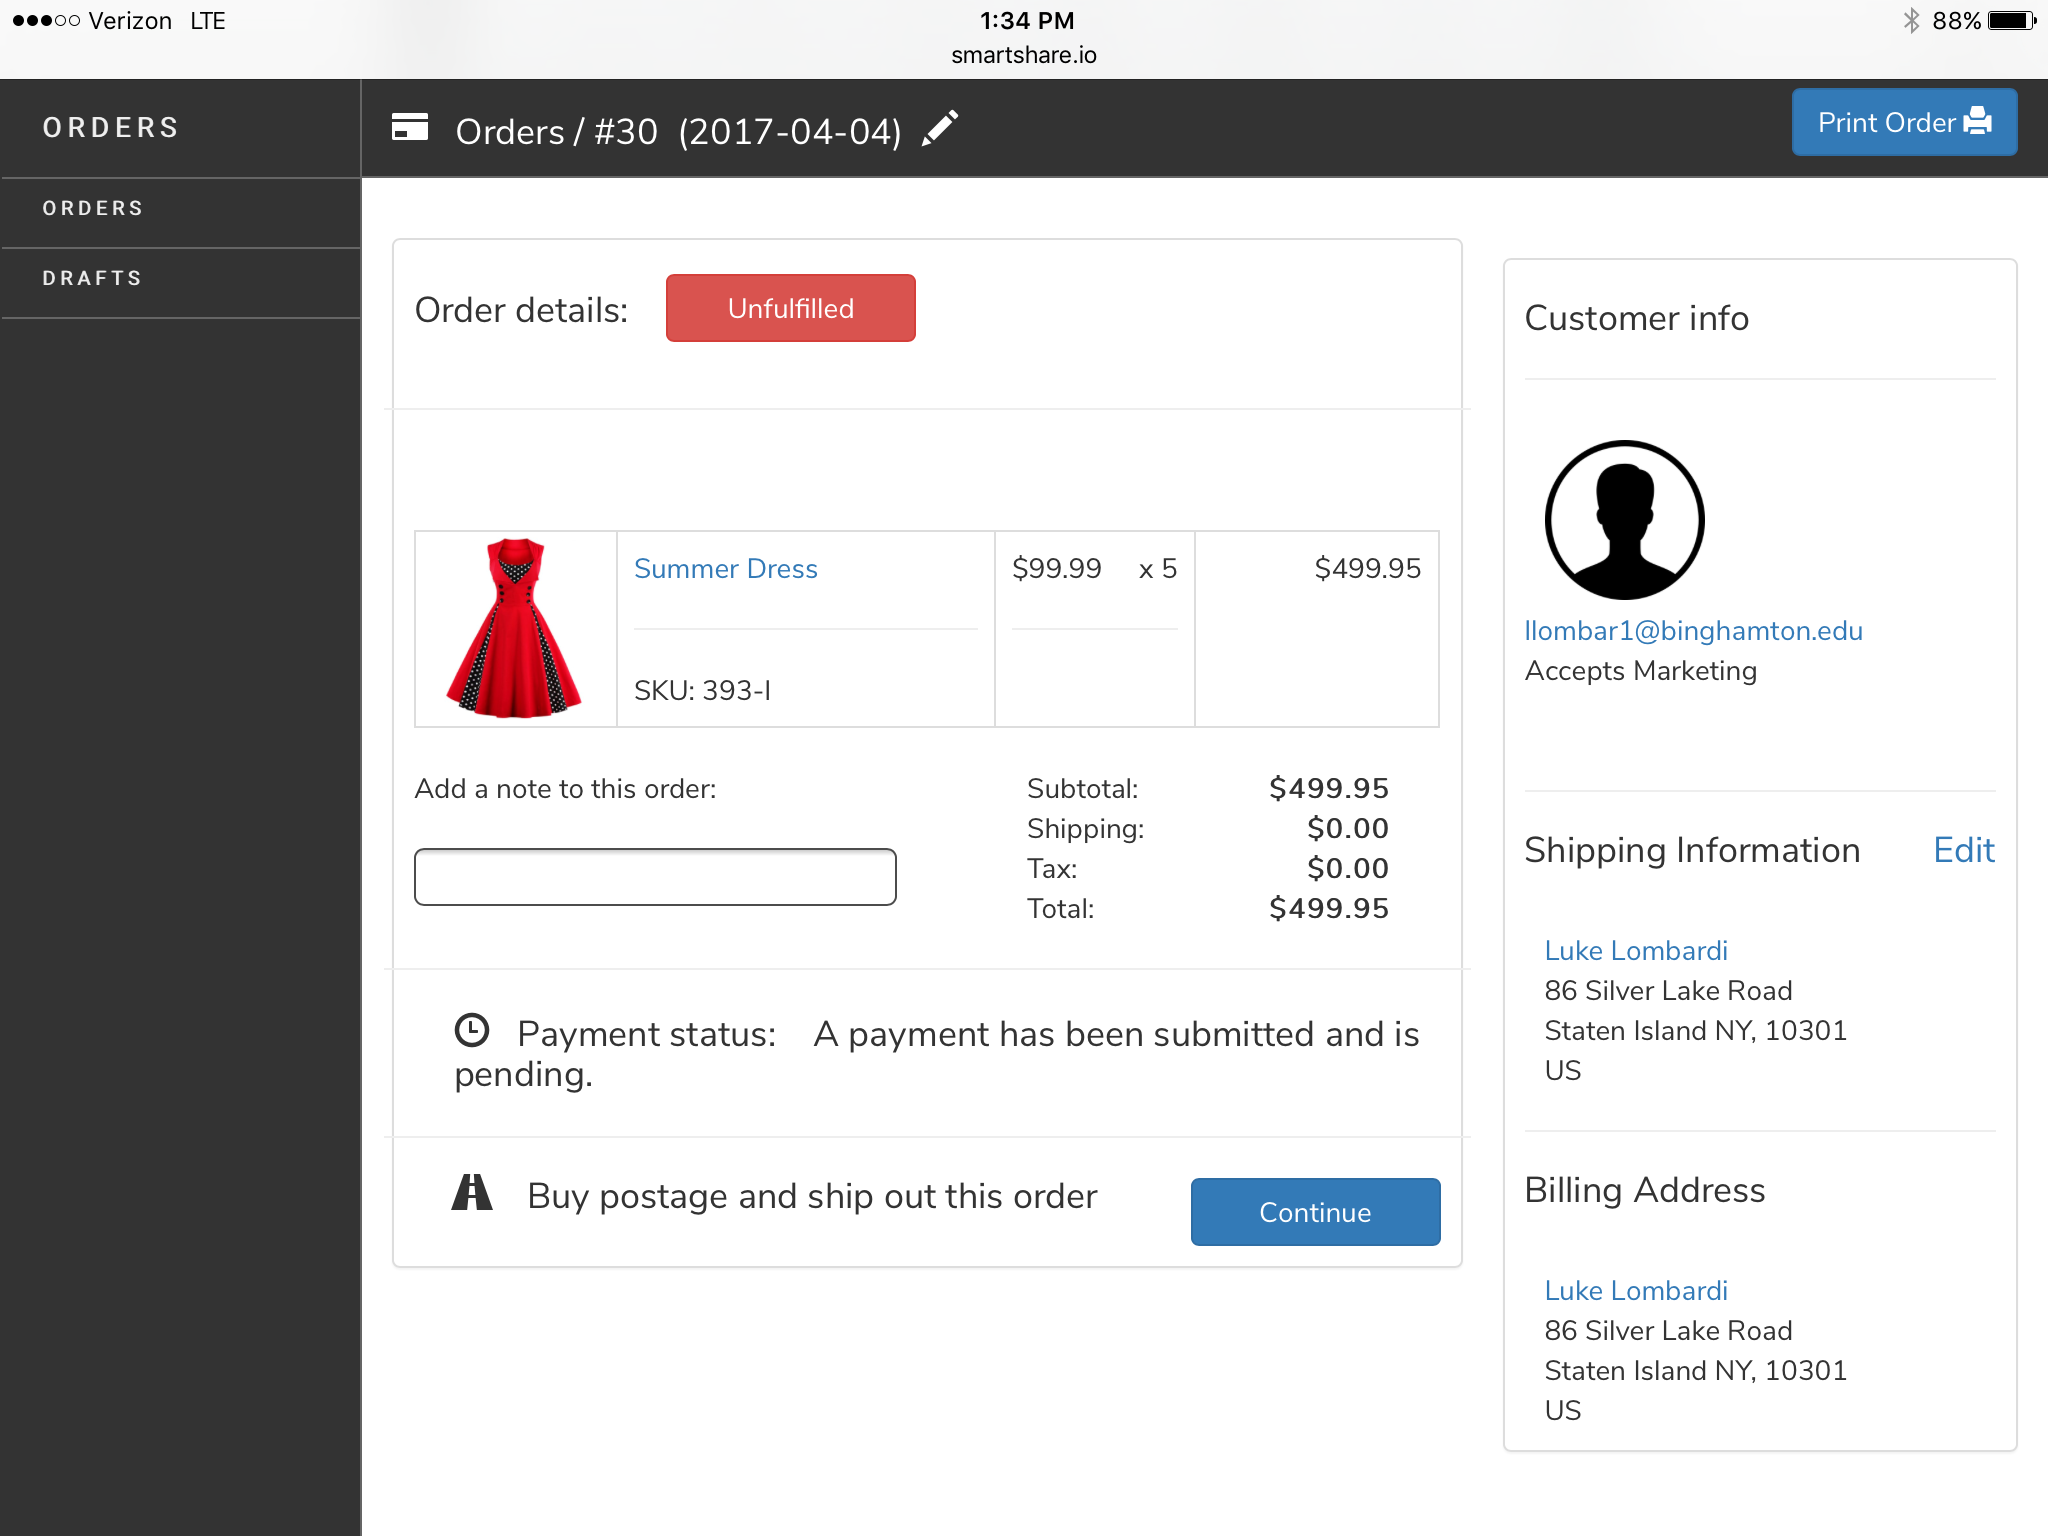
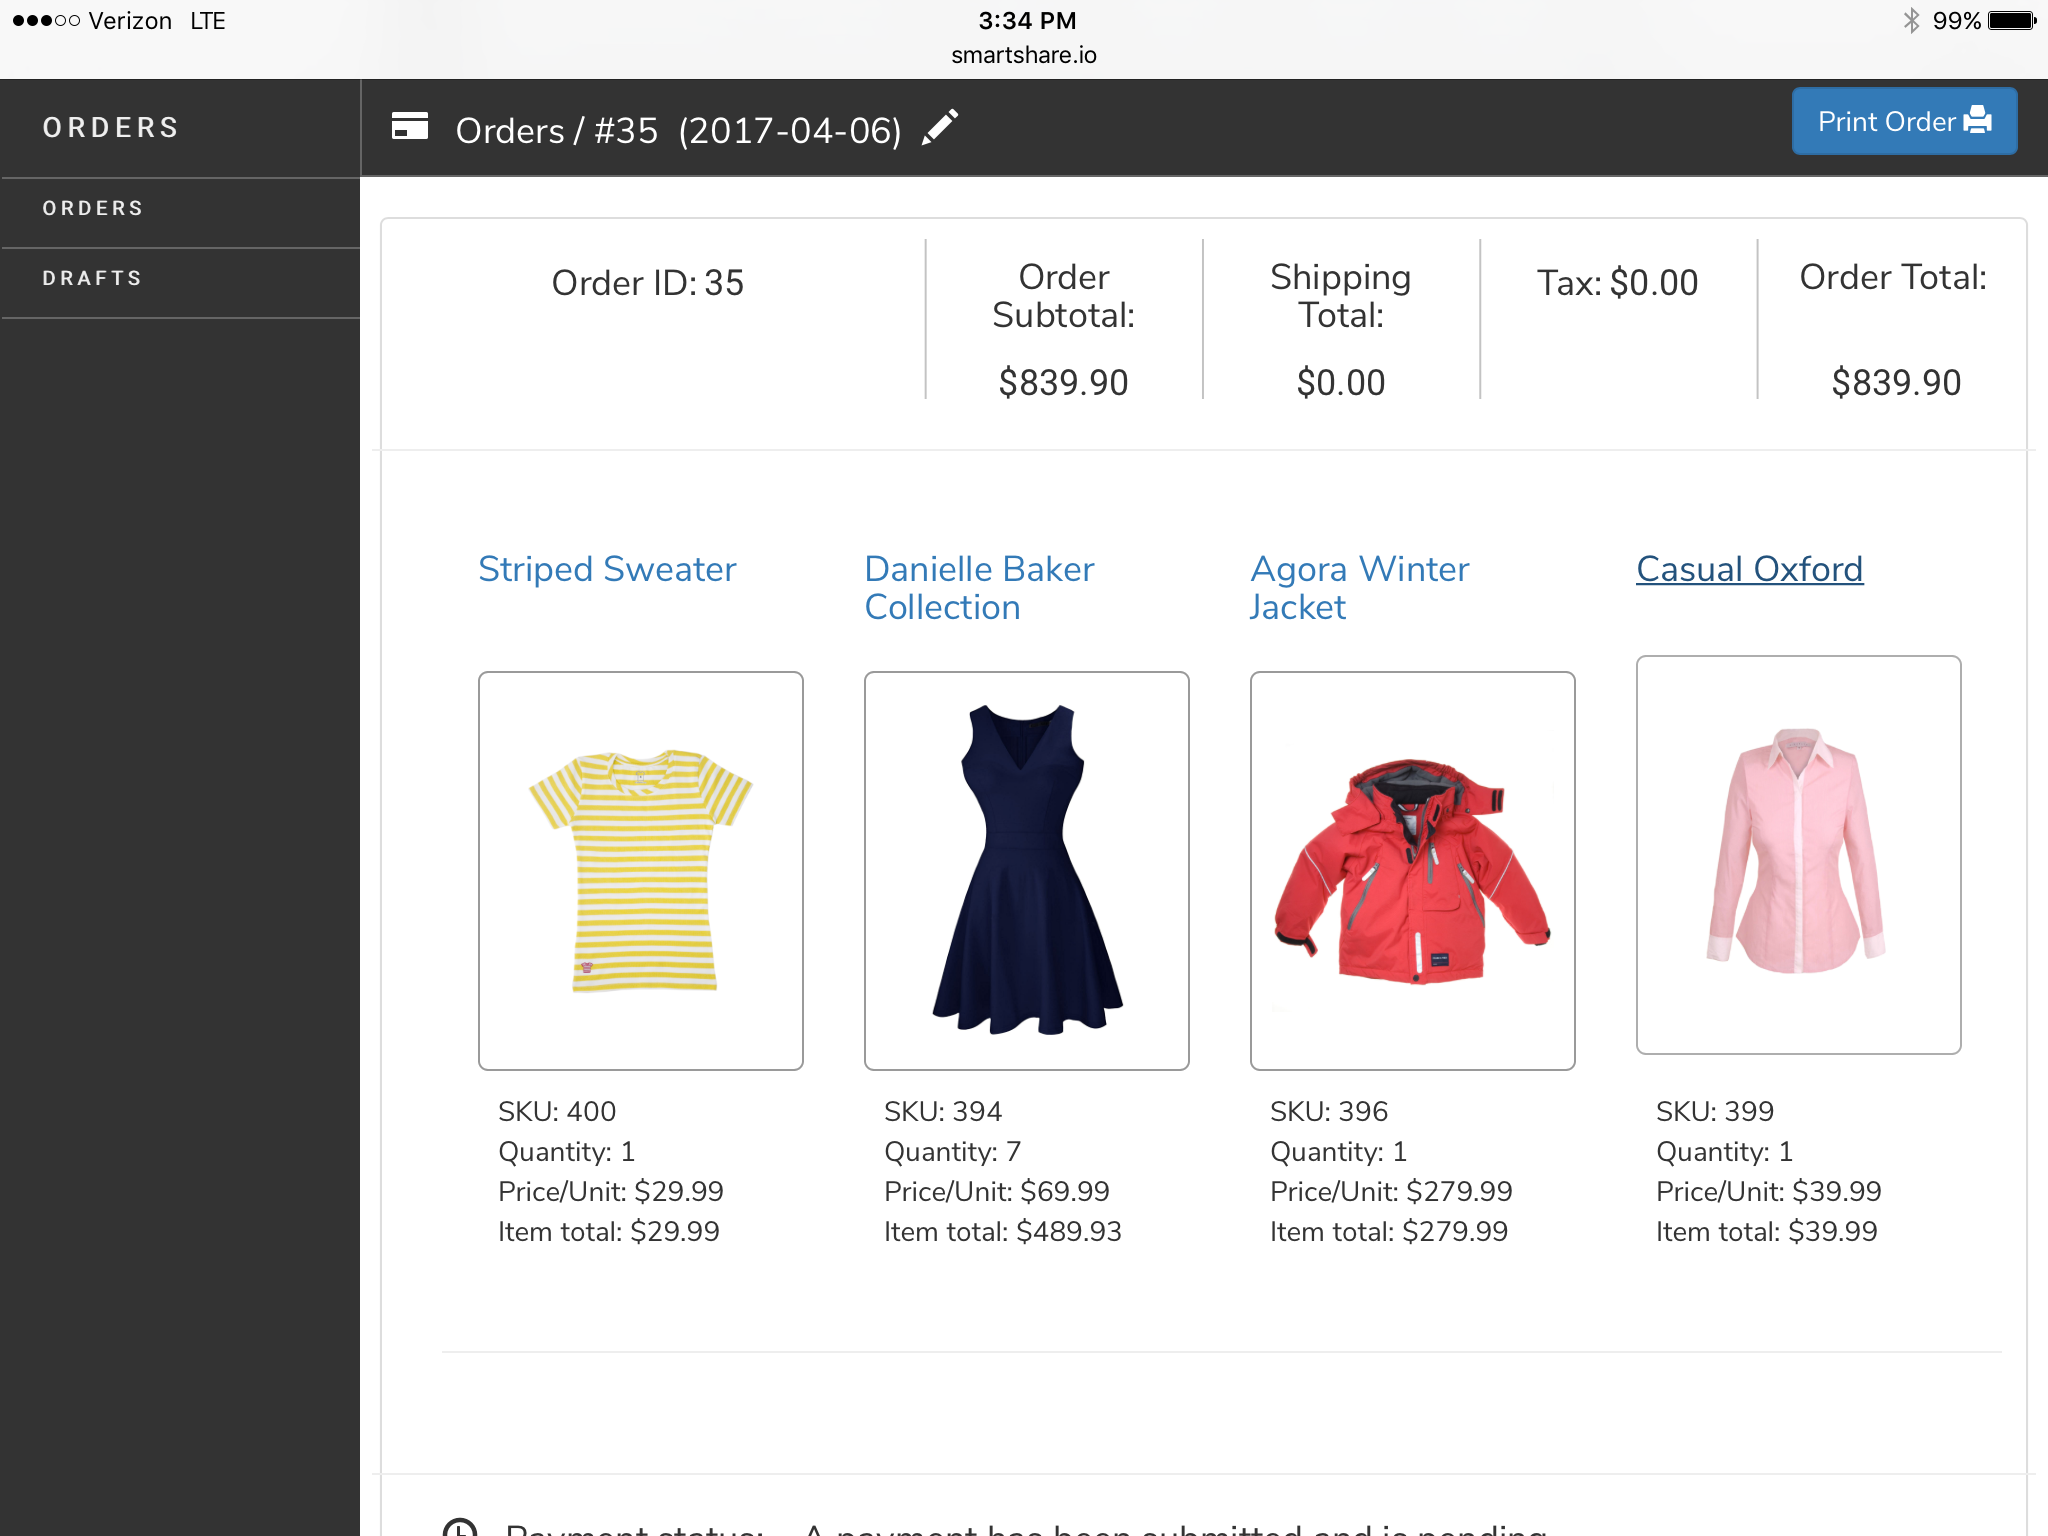
order fulfillment edits

diff --git a/templates/control_panel/order/FulfillOrder.html b/templates/control_panel/order/FulfillOrder.html
@@ -12,14 +12,18 @@
 
 <div class="row">
 	<!-- Begin fulfillment editor content div -->
+
 	<div class="col-xs-12 tab_content">
+
+		<div class="container-fluid">
+
 		<div class="row">
 		<!-- begin fulfillment editor left panel -->
-			<div class="col-xs-8" id="fulfillment_editor_left_panel">
+			<div class="col-lg-9 flex-panel">
 				
 				<!-- begin fulfillment details panel -->
 				<div class="panel panel-default" id="panel_fulfillment_details">
-					<h4> Fulfillment Method </h4>
+					<h4> <a href="/control/orders/{{control_data.order_id}}"><button type="button" class="btn btn-primary"><span class="glyphicon glyphicon-chevron-left"></span> &nbsp; Back to order </button></a> &nbsp;&nbsp; Fulfillment Method </h4>
 					<!-- begin fulfillment method choice -->
 					<div class="row">
 						<hr>
@@ -39,7 +43,7 @@
 					</div>
 					<!-- end fulfillment method choice -->
 					<br>
-					<h4> Items to fulfill </h4>
+					<h4> Items to fulfill: </h4>
 					<!-- begin order details -->
 					<div class="row">
 						<hr>
@@ -69,32 +73,16 @@
 
 					<!-- begin fulfillment option -> mark fulfilled -->
 					<div id="cont_mark_fulfilled">
-						<h4> Tracking information </h4>
+						<h4> Order tracking </h4>
+						<div class="row">
 							<hr>
-								<div class="form-group">
+							<div class="col-xs-12">
 
-									<div class="row">
-										<div class="col-xs-6">
-											<span class="span_label"> Enter a tracking number: </span>
-										</div>
-										<div class="col-xs-6">
-											<span class="span_label"> Select your shipping service: </span>
-										</div>
-									</div>
-									<br>
-									<div class="row">
-										<div class="col-xs-6">
-											<input type="text" class="form-control" placeholder="Tracking number: e.g. 9400 1000 0000 0000 0000 00">
-										</div>
-										<div class="col-xs-6">
-											<select class="form-control">
-												<option value="USPS"> USPS </option>
-												<option value="UPS"> UPS </option>
-											</select>
-										</div>
-									</div>
-								</div>
+
+
+							</div>
 						</div>
+					</div>
 					<!-- end fulfillment option -> mark fulfilled -->
 					</div>
 						
@@ -102,7 +90,7 @@
 			<!-- end fulfillment editor left panel -->
 
 		<!-- begin fulfillment editor right panel -->
-			<div class="col-xs-4" id="fulfillment_editor_right_panel">
+			<div class="col-lg-3 flex-panel">
 			<!-- begin order customer panel -->
 				<div class="panel panel-default padded_panel" id="panel_order_customer">					
 					<h4> Shipping Information <a href="#" data-toggle="modal" data-target="#modal_editShippingAddress" style="float:right;"> Edit </a> </h4>
@@ -122,7 +110,7 @@
 					<hr>
 
 					<div id="cont_summary_fulfill">
-						<h5> Mark selected item quantities as fulfilled: </h5>
+						<h5> Mark fulfilled: </h5>
 						<hr>
 						<div class="row">
 								<div class="col-xs-12 text-center">
@@ -146,6 +134,7 @@
 		</div>
 	</div>
 	<!-- End fulfillment editor content div -->
+</div>
 </div>
 
 	<div class="row">

diff --git a/templates/control_panel/order/table_orderProducts_fulfillment.html b/templates/control_panel/order/table_orderProducts_fulfillment.html
@@ -1,36 +1,37 @@
-
-  <table class="table table-bordered table-hover" id="order_products_table">
-  <thead>
-  <th id="th_thumbnail"></th>
-  <th></th>
-  <th id="th_sku"></th>
-  <th></th>
-
-  </thead>
- 	<tbody>
- 	{% for product_id, product in products.iteritems() %}
- 	<tr class="product_row" data-productID="{{product_id}}" data-productSKU="{{product.VariantSKU}}">
- 		
- 		<td class="thumbnail_product_40"> 
- 		<input type="hidden" class="product_img_src" id="{{product.product_id}}" value="{{product_thumbnails[product_id]}}"> 
-
- 		</td>
- 		<td> <a href="/control/products/{{product_id}}"> {{ product.Title }} </a><hr>SKU: {{product.VariantSKU}} </td>
- 		<td> ${{ '%0.2f' % product.VariantPrice }} x <hr>
- 			<select class="form-control select_product_quantity" data-productID="{{product_id}}" data-productSKU="{{product.VariantSKU}}"> 
-				{% for n in range((product.quantity | int) + 1) %}
-					<option value="{{n}}">{{n}}</option>
-				{% endfor %}
- 			</select>
- 		</td>
- 		<td class="order_item_total"> ${{ '%0.2f' % subtotals[product.VariantSKU] }}</td>
-
- 		<input type="hidden" class="product_quantity" data-productID="{{product_id}}" data-productSKU="{{product.VariantSKU}}" value="{{product.quantity}}">
-
- 	</tr>
- 	{% endfor %}
+<div id="order_products_table">
+    <div class="row" id="order_products_row">
+      {% for product_id, product in products.iteritems() %}
+        <div class="col-sm-3 order_product_container">
+          
 
 
- 	</tbody>
-  </table>	
+          <a href="/control/products/{{product_id}}">
+            <h4 class="order_product_title"> {{product.Title}} </h4>  
+          </a>
+            <div class="order_product_fulfillment_status">
+
+              <div class="order_product_fulfillment hvr-float" data-productID="{{product_id}}" style="background-image:url('{{product_thumbnails[product_id]}}');">
+                  
+                  <div class="order-fulfillment-glyph"> 
+                    <span class="glyph-fulfilled glyphicon glyphicon-ok"> </span> 
+                  </div>
+              </div>
+            </div>
+         
+
+          <div class="order_product_info" data-productID="{{product_id}}">
+              SKU: {{product.VariantSKU}} <br>
+              Quantity: {{ product.quantity }} <br>
+              Price/Unit: ${{ '%0.2f' % product.VariantPrice }} <br>
+              Item total: ${{ '%0.2f' % subtotals[product.VariantSKU] }}
+          </div>
+        </div>
+        <hr class="hidden-sm hidden-md hidden-lg hidden-xl">
+
+      {% endfor %}
+    </div>
+    <hr>
+
+</div>
+
 

diff --git a/templates/control_panel/product/productEditor_product.html b/templates/control_panel/product/productEditor_product.html
@@ -10,11 +10,10 @@
 		<div class="row">
 			<!-- Begin product editor content div -->
 			<div class="col-xs-12 tab_content">
-				<div class="container">
+			<div class="container-fluid">
 				<div class="row">
 					<!-- Begin: main product editor column (left aligned) -->
-					<div class="col-lg-7" id="product_editor_panel">
-
+					<div class="col-lg-7 flex-panel">
 						<div class="panel panel-default" id="panel_product_text_editor">
 							<h4> Product Details &nbsp;&nbsp; <span class="glyphicon glyphicon-list-alt"></span></h4>
 							<hr>
@@ -147,7 +146,7 @@
 		 			<!-- End: main product editor column (left aligned) -->
 
 		 			<!-- Begin: product attribute editor column (right aligned) -->
-					<div class="col-lg-5" id="product_editor_attributes">
+					<div class="col-lg-5 flex-panel">
 						<div class="panel panel-default text-center" id="panel_product_visibility">
 							<h4> Product Visibility &nbsp;&nbsp; <span class="glyphicon glyphicon-eye-open"></span> </h4>
 							<hr>
@@ -305,9 +304,8 @@
 			</div>
 			<!-- End: Product editor content div -->
 		</div>
-		</div>
-
 	</div>
+
 
 
 

diff --git a/static/css/control.css b/static/css/control.css
@@ -1431,18 +1431,11 @@ h4 {
 .flex-panel {
     flex:1;
     padding:10px;
+    margin-top:10px;
+    display:flex;
+    flex-direction: column;
 }
 
-#product_editor_panel{
-	flex:1;
-	padding:10px;
-	
-}
-
-#product_editor_attributes{
-	flex:1;
-	padding:10px;
-}
 
 
 #product_description {
@@ -1975,6 +1968,10 @@ top:-1px;
     margin-bottom:20px;
 }
 
+.order_product_fulfillment_status{
+
+}
+
 .order_product{
     margin-top:10px;
     height:200px;
@@ -1993,6 +1990,28 @@ top:-1px;
 .order_product:hover{
     opacity:0.8;
 }
+
+
+.order_product_fulfillment{
+    margin-top:10px;
+    height:200px;
+    width:100%;
+    border:1px solid rgba(53,53,53,0.5);
+    background-repeat:no-repeat;
+    background-size:contain;
+    background-position:center;
+    background-origin:content-box;
+    padding:10px;
+    margin-right:20px;
+    border-radius:5px;
+
+}
+
+.order_product_fulfillment:hover{
+    opacity:0.8;
+    cursor:pointer;
+}
+
 
 
 .order_product_info{

diff --git a/templates/control_panel/order/OrderEditor.html b/templates/control_panel/order/OrderEditor.html
@@ -8,8 +8,6 @@
 	</div>	
 </div>
 
-
-	
 	<div class="row">
 		<!-- Begin order editor content div -->
 		<div class="col-xs-12 tab_content">
@@ -18,8 +16,11 @@
 			<!-- begin order editor left panel -->
 				<div class="col-lg-9" id="order_editor_left_panel">
 					<!-- begin order details panel -->
+
 					<div class="panel panel-default" id="panel_order_details">
+
 						<div class="row" id="order-details-row">
+
 							<div class="col-sm-4 order-detail text-center">
 								<h4 class="order-detail-header"> Order ID: </h4> <hr class="hr-sm-margin hidden-xs hidden-sm hidden-md"> <b class="order-detail-value">{{control_data.order_data.order_id}}</b>
 							</div>
@@ -169,7 +170,6 @@
 		</div>
 	</div>
 		<!-- End order editor content div -->
-</div>
 
 
 <div class="row">

diff --git a/modules/control_views.py b/modules/control_views.py
@@ -574,11 +574,14 @@ class ControlPanel(object):
 		return render_template("control_panel/order/OrderEditor.html", control_data = self.control_data)
 
 
+
+
 	def order_addDraft(self):
 		formattedProductList = loadAllProducts(self.database)
 		self.control_data["products"] = formattedProductList
 		self.control_data["page"] = "order_editor_draft_new"
 		return render_template("control_panel/order/OrderEditor_addDraft.html", control_data = self.control_data)
+
 
 
 
